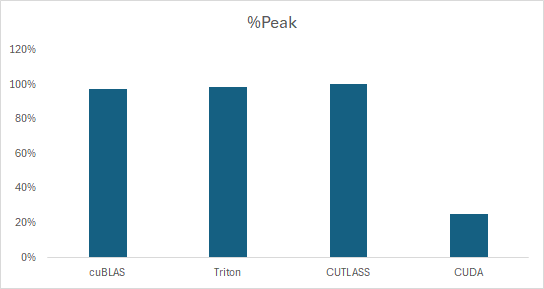
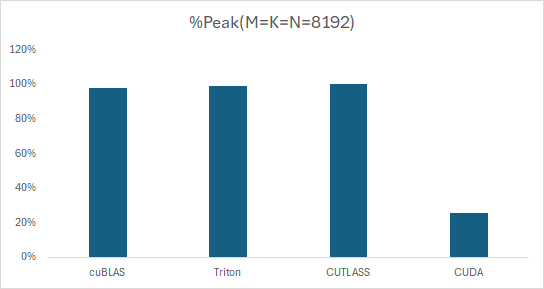
fix README

diff --git a/README.md b/README.md
@@ -1,4 +1,4 @@
-## Testbed
+# Testbed
 - RTX 4090
 - CUDA 12.1
 - CUTLASS 3.4.1
@@ -7,9 +7,8 @@
 - Execution : 100 times 
 - DataType: fp32 + fp16
 
-## Performance
-- M=K=N=8192
-![](./gpu/performance/1.png)
+# Performance
 
-- M=N=512，K=8192
-![](./gpu/performance/2.png)
+<p align="center"><img src=gpu/performance/1.png></p>
+
+<p align="center"><img src=gpu/performance/2.png></p>
